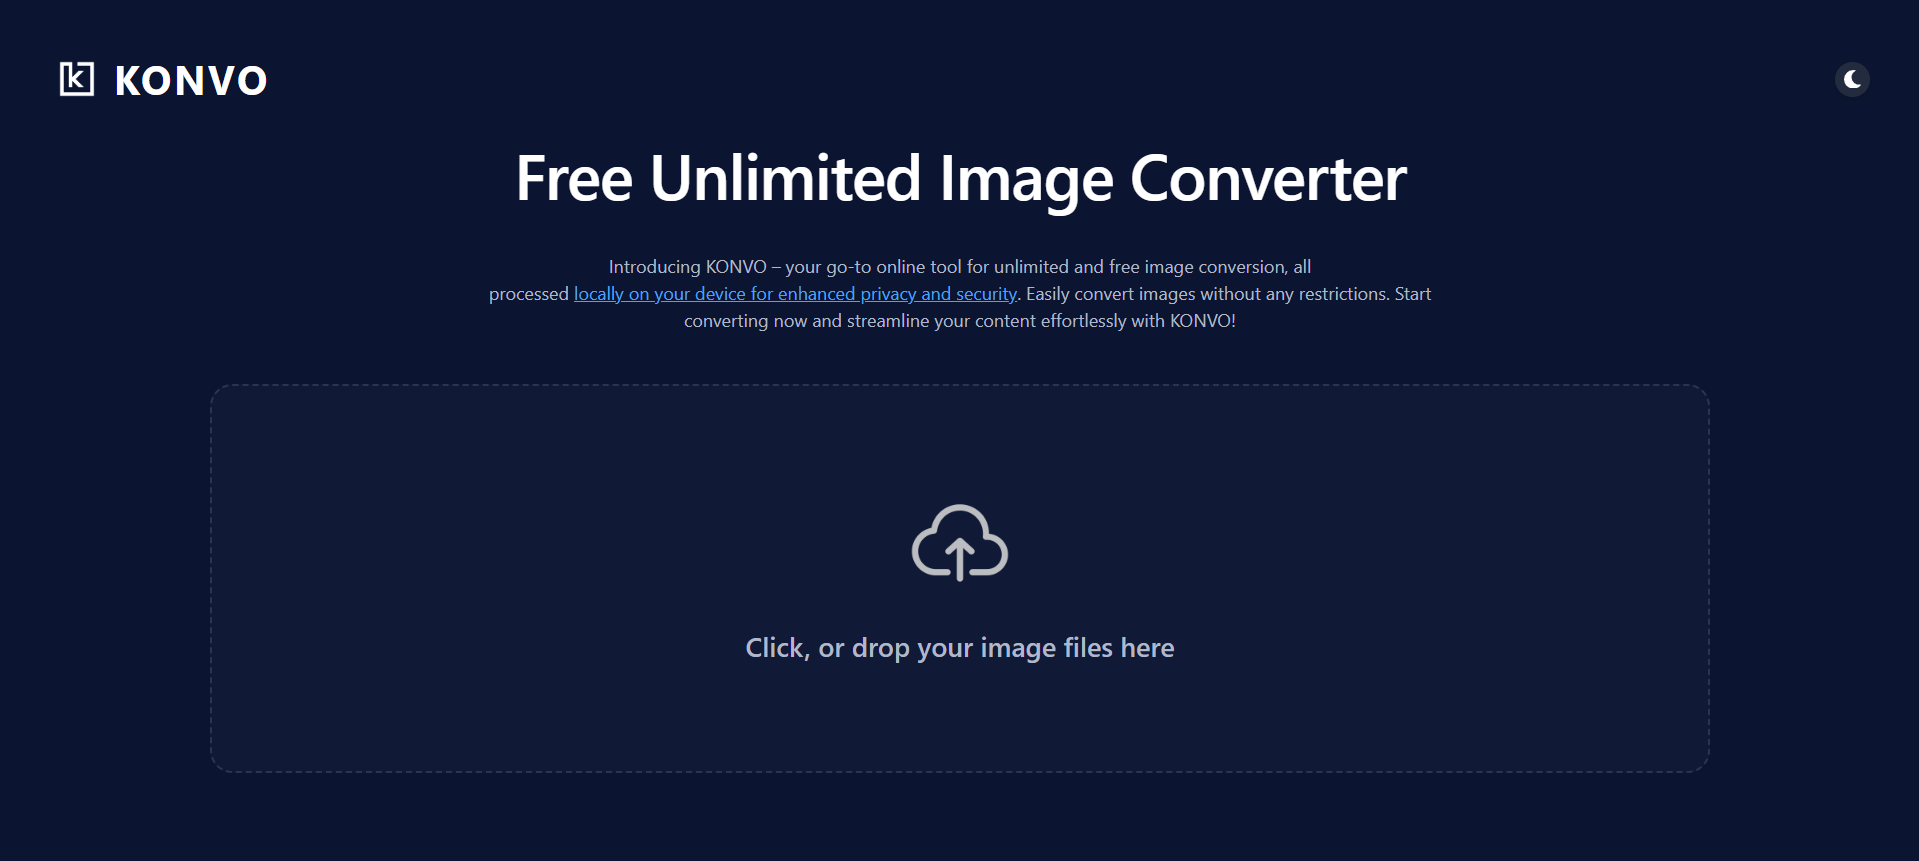
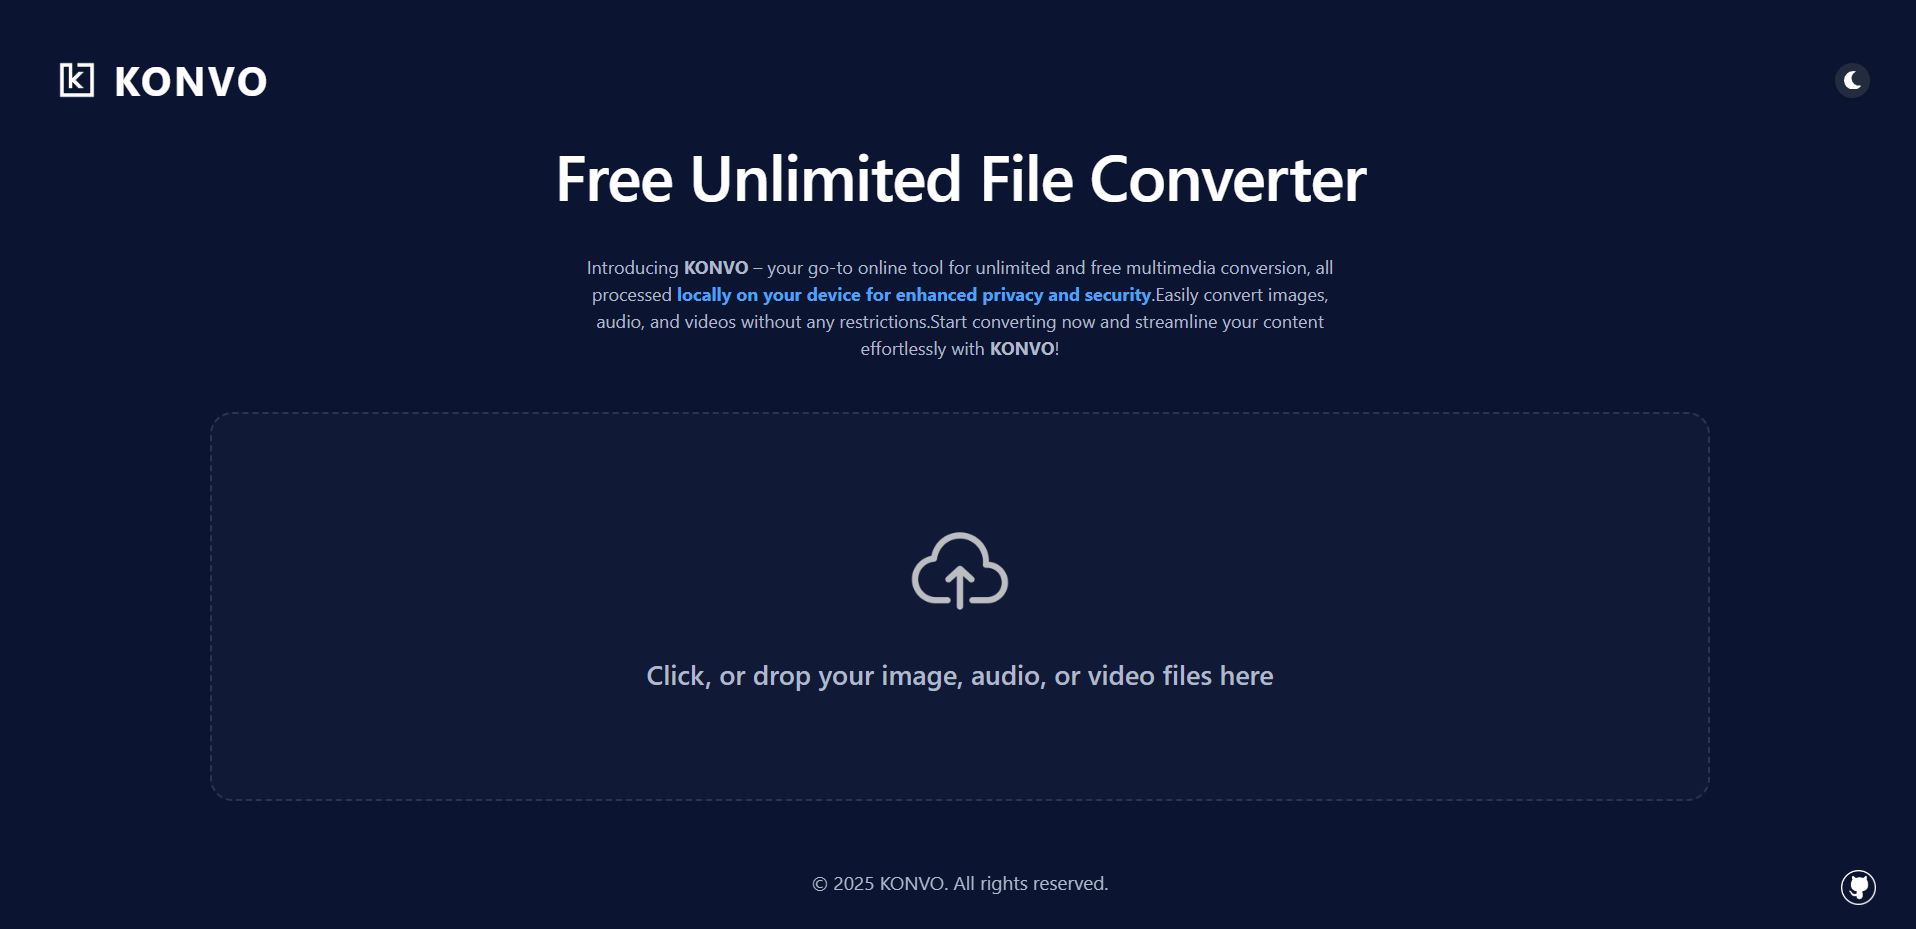
Update styles and components and complete documenting

diff --git a/src/components/FileUpload/FileUpload.tsx b/src/components/FileUpload/FileUpload.tsx
@@ -1,4 +1,4 @@
-import { useRef } from 'react';
+import { useRef, useState } from 'react';
 import { IMAGE_FORMATS, AUDIO_FORMATS, VIDEO_FORMATS } from '@/constants';
 import './FileUpload.css';
 
@@ -9,6 +9,7 @@ interface FileUploadProps {
 
 export const FileUpload: React.FC<FileUploadProps> = ({ darkMode, onFileSelect }) => {
   const fileInputRef = useRef<HTMLInputElement>(null);
+  const [isDragActive, setIsDragActive] = useState(false);
 
   const handleFileChange = (e: React.ChangeEvent<HTMLInputElement>) => {
     const file = e.target.files?.[0];
@@ -20,6 +21,7 @@ export const FileUpload: React.FC<FileUploadProps> = ({ darkMode, onFileSelect }
 
   const handleDrop = (e: React.DragEvent<HTMLDivElement>) => {
     e.preventDefault();
+    setIsDragActive(false);
     const file = e.dataTransfer.files?.[0];
     if (file) {
       onFileSelect(file);
@@ -28,6 +30,11 @@ export const FileUpload: React.FC<FileUploadProps> = ({ darkMode, onFileSelect }
 
   const handleDragOver = (e: React.DragEvent<HTMLDivElement>) => {
     e.preventDefault();
+    setIsDragActive(true);
+  };
+
+  const handleDragLeave = (e: React.DragEvent<HTMLDivElement>) => {
+    setIsDragActive(false);
   };
 
   // const handleClick = () => {
@@ -36,9 +43,10 @@ export const FileUpload: React.FC<FileUploadProps> = ({ darkMode, onFileSelect }
 
   return (
     <section
-      className={`file-upload ${darkMode ? 'file-upload--dark' : 'file-upload--light'}`}
+      className={`file-upload ${darkMode ? 'file-upload--dark' : 'file-upload--light'}${isDragActive ? ' file-upload--drag-active' : ''}`}
       onDrop={handleDrop}
       onDragOver={handleDragOver}
+      onDragLeave={handleDragLeave}
     >
       <input
         id="file-input"

diff --git a/src/components/Header/Header.css b/src/components/Header/Header.css
@@ -4,6 +4,16 @@
   justify-content: space-between;
   padding: 1.5rem 2.5rem 0.5rem 2.5rem;
   min-height: 80px;
+  opacity: 0;
+  transform: translateY(-30px);
+  animation: headerEntrance 0.7s cubic-bezier(0.23, 1, 0.32, 1) forwards;
+}
+
+@keyframes headerEntrance {
+  to {
+    opacity: 1;
+    transform: translateY(0);
+  }
 }
 
 .header__logo {
@@ -26,6 +36,26 @@
   line-height: 1;
   display: flex;
   align-items: center;
+  position: relative;
+  overflow: hidden;
+}
+
+.header__logo-text::after {
+  content: '';
+  display: block;
+  position: absolute;
+  left: 0;
+  bottom: -4px;
+  width: 100%;
+  height: 3px;
+  background: linear-gradient(90deg, #4ea1f7 0%, #232b3e 100%);
+  transform: scaleX(0);
+  transform-origin: left;
+  transition: transform 0.35s cubic-bezier(0.23, 1, 0.32, 1);
+}
+
+.header__logo-text:hover::after {
+  transform: scaleX(1);
 }
 
 .header__theme-button {

diff --git a/src/components/FileConverter/FileConverter.css b/src/components/FileConverter/FileConverter.css
@@ -2,6 +2,16 @@
   width: 100%;
   max-width: 800px;
   margin: 0 auto;
+  opacity: 0;
+  transform: translateY(30px);
+  animation: fileConverterEntrance 0.7s cubic-bezier(0.23, 1, 0.32, 1) forwards;
+}
+
+@keyframes fileConverterEntrance {
+  to {
+    opacity: 1;
+    transform: translateY(0);
+  }
 }
 
 .file-converter__file-info {
@@ -181,6 +191,8 @@
   min-width: 240px;
   background: var(--dropdown-bg, #fff);
   transition: background 0.2s, border 0.2s;
+  max-height: 320px;
+  overflow-y: auto;
 }
 
 .file-converter__dropdown-menu--dark {
@@ -234,6 +246,11 @@
   font-size: 14px;
   cursor: pointer;
   margin-left: 12px;
+}
+
+.file-converter__remove-button:hover {
+  color: #e74c3c !important;
+  transition: color 0.2s;
 }
 
 .file-converter__error {

diff --git a/src/App.tsx b/src/App.tsx
@@ -106,11 +106,11 @@ export default function App() {
       <footer className="app__footer">
         <span>© 2025 KONVO. All rights reserved.</span>
         <a
-          href="https://github.com/Shenux0/project-KONVO"
+          href="https://github.com/Shenux0"
           target="_blank"
           rel="noopener noreferrer"
           className="github-btn-corner"
-          aria-label="GitHub Repository"
+          aria-label="GitHub Profile"
         >
           <img src={darkMode ? Githubdarkside : GithubLightside} alt="GitHub" height={28} />
         </a>

diff --git a/src/components/FileUpload/FileUpload.css b/src/components/FileUpload/FileUpload.css
@@ -58,4 +58,11 @@
 
 .file-upload--light .file-upload__text {
   color: #222;
+}
+
+.file-upload--drag-active {
+  border-color: #4ea1f7 !important;
+  box-shadow: 0 0 0 4px rgba(78, 161, 247, 0.15);
+  transform: scale(1.025);
+  transition: border-color 0.25s, box-shadow 0.25s, transform 0.25s;
 } 

diff --git a/README.md b/README.md
@@ -1,21 +1,27 @@
-# KONVO - Image Converter
+# KONVO - Universal File Converter
 
 ![KONVO Screenshot](src/assets/screenshot.png)
-*Main interface of the KONVO Image Converter app*
+*Main interface of the KONVO Universal File Converter app*
 
 ![KONVO Conversion Screenshot](src/assets/screenshot2.png)
-*Image conversion interface with format selection*
+*Conversion interface with format selection*
 
-A modern, privacy-focused image conversion tool built with React, TypeScript, and Vite. Convert images locally on your device without uploading to external servers.
+A modern, privacy-focused multimedia conversion tool built with React, TypeScript, and Vite. Convert images, audio, and video files locally on your device—no uploads, no privacy risks.
 
 ## ✨ Features
 
-- **Local Processing**: All conversions happen locally on your device
-- **Multiple Formats**: Support for JPG, PNG, GIF, BMP, WebP, ICO, TIFF
-- **Dark/Light Theme**: Beautiful theme switching with smooth animations
+- **Universal Conversion**: Convert images, audio, and video files between popular formats
+- **Local Processing**: All conversions happen locally in your browser for maximum privacy
+- **Supported Formats**:
+  - **Images**: JPG, JPEG, PNG, GIF, BMP, WebP, ICO, TIF, TIFF
+  - **Audio**: MP3, WAV, OGG, AAC, WMA, FLAC, M4A
+  - **Video**: MP4, M4V, WEBM, OGV, MKV, AVI, MOV, FLV, H264, 264
+- **Extract Audio from Video**: Convert video files to audio formats
+- **Dark/Light Theme**: Beautiful theme switching with animated transitions
 - **Drag & Drop**: Intuitive file upload interface
 - **Responsive Design**: Works perfectly on desktop and mobile
-- **Type Safety**: Built with TypeScript for better development experience
+- **Type Safety**: Built with TypeScript for robust development
+- **Modern UI/UX**: Smooth animations, accessible controls, and a clean interface
 
 ## 🚀 Getting Started
 
@@ -51,7 +57,9 @@ src/
 ├── components/          # Reusable UI components
 │   ├── Header/         # Application header with theme toggle
 │   ├── FileUpload/     # File upload and drag-drop interface
-│   ├── FileConverter/  # File conversion interface
+│   ├── FileConverter/  # Image conversion interface
+│   ├── AudioConverter/ # Audio conversion interface
+│   ├── VideoConverter/ # Video conversion interface
 │   └── SplashAnimation/# Theme transition animation
 ├── hooks/              # Custom React hooks
 │   └── useTheme.ts     # Theme management hook
@@ -61,10 +69,9 @@ src/
 │   └── index.ts        # Application types
 ├── constants/          # Application constants
 │   └── index.ts        # Theme, formats, and configuration
-├── styles/             # Global styles and CSS modules
 ├── App.tsx             # Main application component
 ├── main.tsx            # Application entry point
-└── index.css           # Global styles
+├── index.css           # Global styles
 ```
 
 ## 🛠 Development
@@ -152,20 +159,6 @@ The project uses a combination of:
 - Optimized production builds
 - Plugin configuration
 
-## 📱 Browser Support
-
-- Chrome (latest)
-- Firefox (latest)
-- Safari (latest)
-- Edge (latest)
-
-## 🤝 Contributing
-
-1. Fork the repository
-2. Create a feature branch (`git checkout -b feature/amazing-feature`)
-3. Commit your changes (`git commit -m 'Add amazing feature'`)
-4. Push to the branch (`git push origin feature/amazing-feature`)
-5. Open a Pull Request
 
 ### Development Guidelines
 
@@ -179,9 +172,4 @@ The project uses a combination of:
 
 This project is licensed under the MIT License - see the [LICENSE](LICENSE) file for details.
 
-## 🙏 Acknowledgments
 
-- React team for the amazing framework
-- Vite team for the fast build tool
-- Framer Motion for smooth animations
-- React Icons for the icon library 
